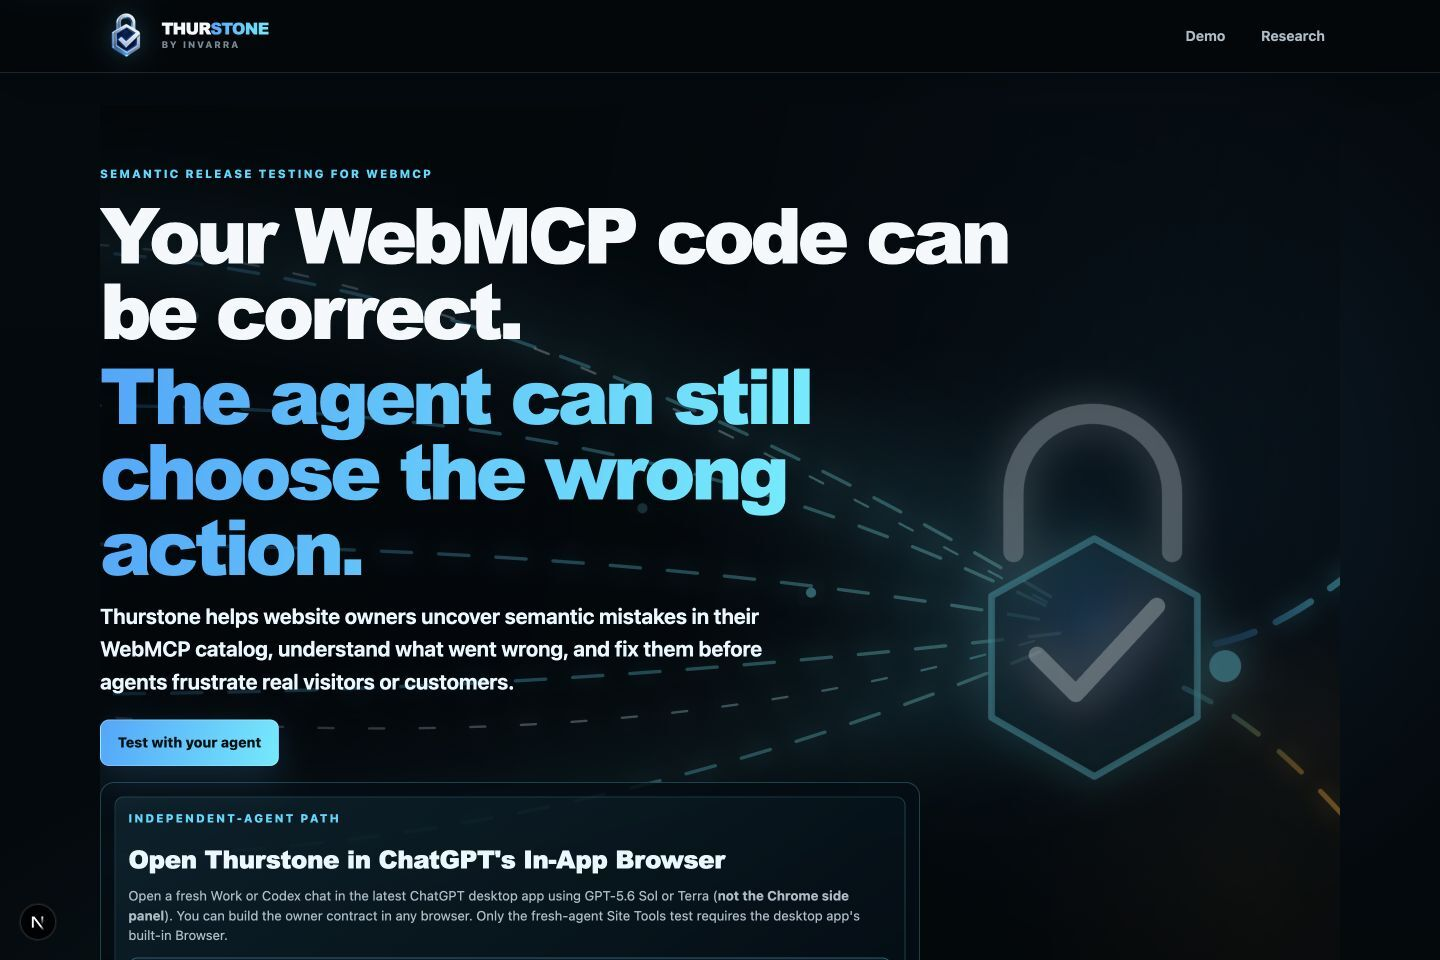
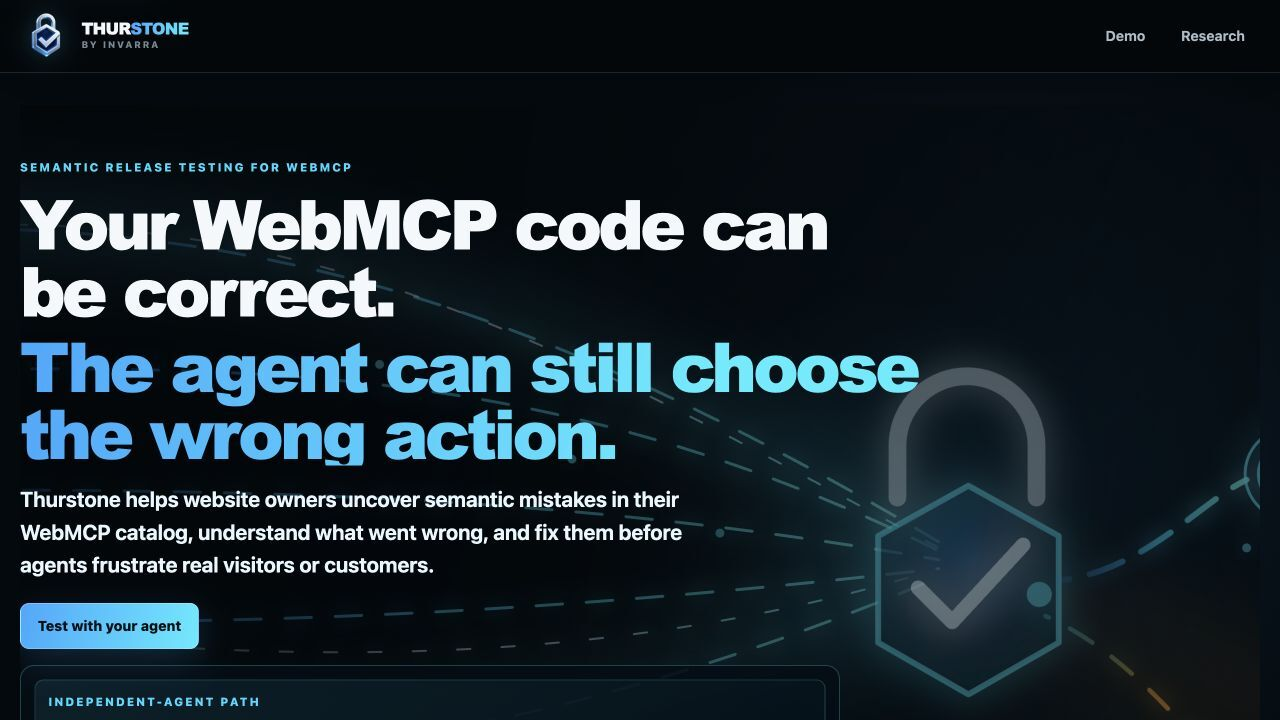
docs: bind production gallery captures

diff --git a/submission/media/GALLERY.md b/submission/media/GALLERY.md
@@ -7,7 +7,7 @@ Upload in this order. Devpost accepts up to 15 JPG/PNG/GIF files under 5 MB and 
 |     1 | `04-controlled-mismatch.jpg` |   1280×720 | **A successful native call can still violate the owner's contract.** This controlled no-model example expected checkout, observed a read-only review, and verified that the required state transition never occurred. |
 |     2 | `02-catalog.jpg`             |   1440×960 | **Select the real WebMCP catalog.** Thurstone ingests the current tools and lets the owner inspect or vary only agent-visible wording while names, schemas, handlers, and effects remain executable and fixed.        |
 |     3 | `03-contract.jpg`            |   1440×960 | **Turn representative requests into release tests.** Each case declares the expected action, arguments, allowed effects, prohibited effects, replay policy, and trusted state source.                                 |
-|     4 | `01-home.jpg`                |   1440×960 | **Semantic release testing for WebMCP.** The owner defines meaning, a visitor's agent uses the live tools, and Thurstone checks the action and page state.                                                            |
+|     4 | `01-home.jpg`                |   1280×720 | **Semantic release testing for WebMCP.** The owner defines meaning, a visitor's agent uses the live tools, and Thurstone checks the action and page state.                                                            |
 |     5 | `05-research.jpg`            |   1280×720 | **Optional measurement background.** Thurstone holds intended meaning fixed, varies how a person expresses it, and measures the resulting native behavior and effect.                                                 |
 
 ## Video thumbnail
@@ -28,9 +28,9 @@ Upload in this order. Devpost accepts up to 15 JPG/PNG/GIF files under 5 MB and 
 
 | File                            | SHA-256                                                            |
 | ------------------------------- | ------------------------------------------------------------------ |
[9 lines of base64/hex data omitted]
